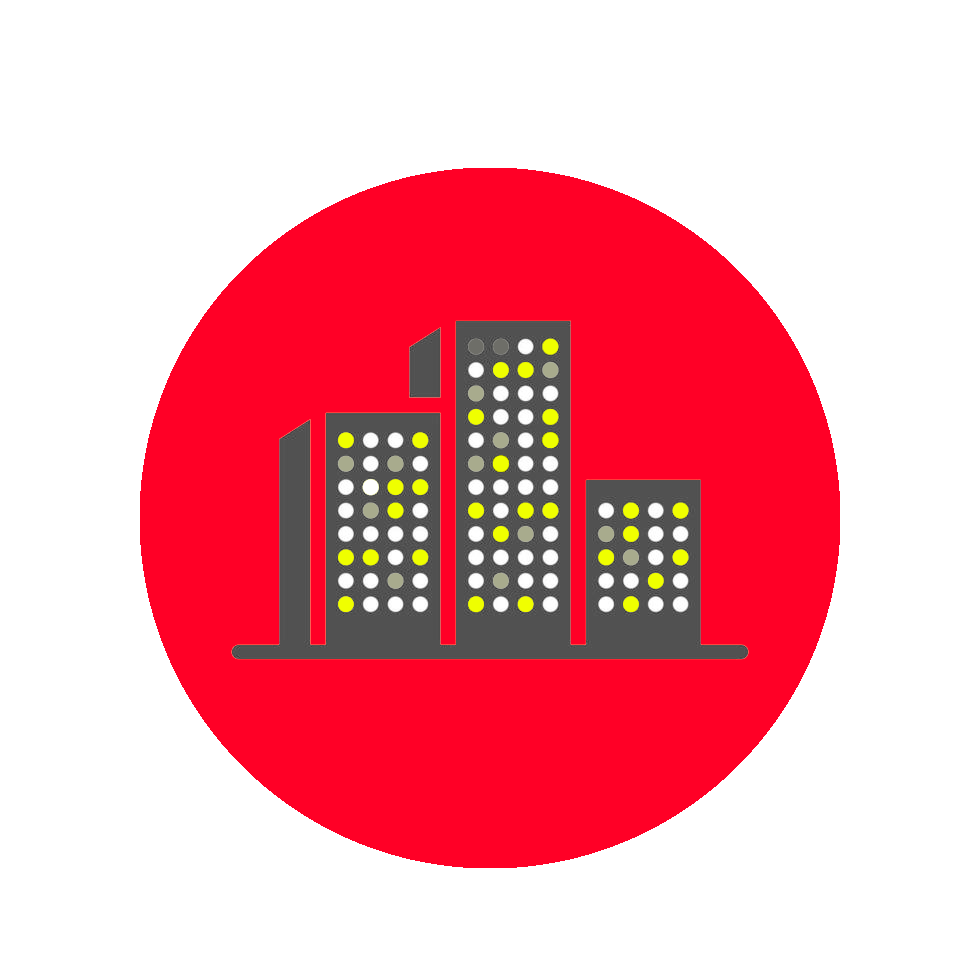
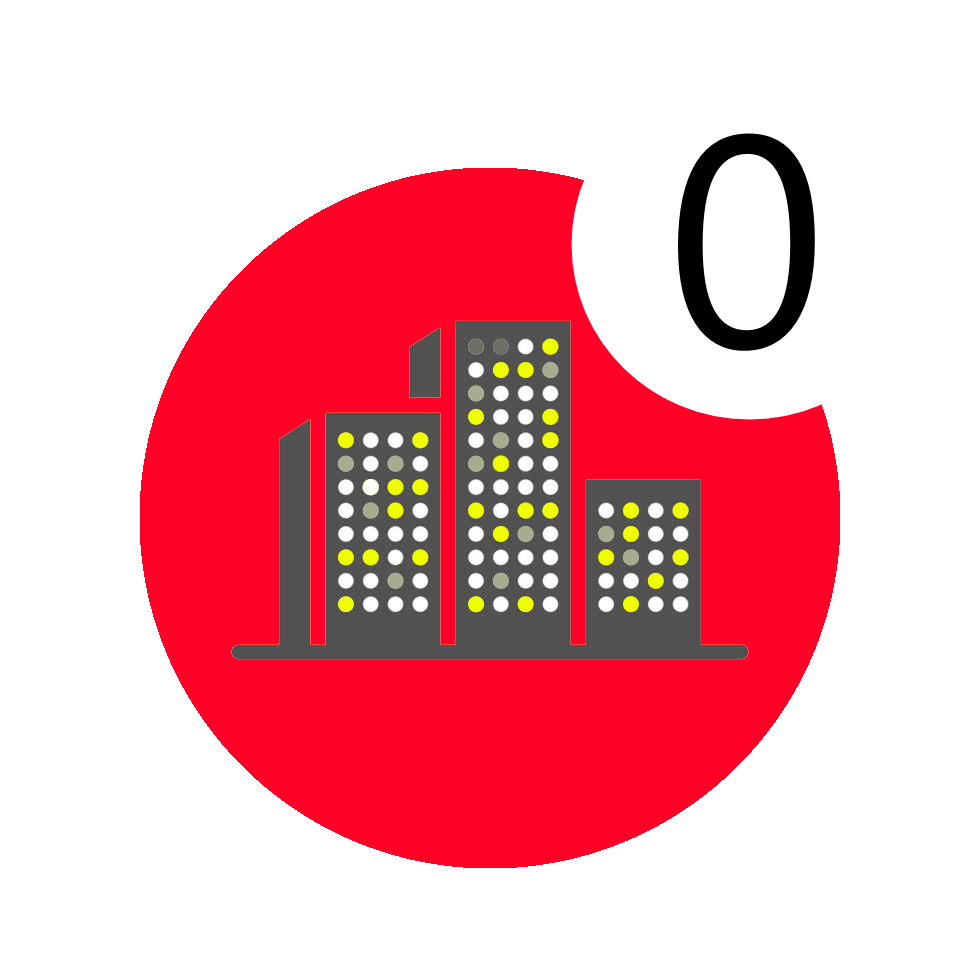
ciudades spawn con nivel

Changed region(s): [[0.5816, 0.1224, 0.8571, 0.4286]]

diff --git a/src/Backend/logicaJuego.java b/src/Backend/logicaJuego.java
@@ -3,9 +3,11 @@ package Backend;
 import java.awt.Color;
 import java.awt.Dimension;
 import java.awt.Image;
+import java.awt.Panel;
 import java.io.BufferedReader;
 import java.io.FileReader;
 import java.io.IOException;
+import java.util.Random;
 import java.util.concurrent.TimeUnit;
 
 import javax.swing.ButtonGroup;
@@ -103,6 +105,7 @@ public class logicaJuego {
 			CiudadBoton c = new CiudadBoton();
 			c.setCiudad(dp.ciudades.get(i));
 			crearBotonciudad(LanzadorPartida.p, c, rutaImg, dp.ciudades.get(i).getCoords()[0], dp.ciudades.get(i).getCoords()[1], 35, 35);
+			
 		}
 	}
 	
@@ -120,6 +123,7 @@ public class logicaJuego {
         p.add(Ciudad);
         //System.out.println("Botón " + rutaimg + "se intentó crear en " + p);
         Ciudad.addActionListener(p);
+        PanelMapa.botonesCiudadesArray.add(Ciudad);
     }
 	
     //VACUNAS
@@ -220,7 +224,7 @@ public class logicaJuego {
 
 	}
 
-public static void animateJLabel(JLabel label, int percentage, int sumar, Vacuna v, Runnable callback) {
+	public static void animateJLabel(JLabel label, int percentage, int sumar, Vacuna v, Runnable callback) {
     int resultado_final = percentage + sumar;
     
     if (resultado_final > 100) {
@@ -255,6 +259,108 @@ public static void animateJLabel(JLabel label, int percentage, int sumar, Vacuna
             callback.run();
         }
     }).start();
+}
+
+	//GAMEPLAY
+public static void empezarPartida(int dificultad){
+    Random rand = new Random();
+    int numCiudadesInfectadas = 0;
+    
+    // Definir el tamaño del array según la dificultad
+    int[] ciudadesInfectadasComienzo;
+    switch (dificultad) {
+        case 1:
+            ciudadesInfectadasComienzo = new int[8];
+            break;
+        case 2:
+            ciudadesInfectadasComienzo = new int[12];
+            break;
+        case 3:
+            ciudadesInfectadasComienzo = new int[16];
+            break;
+        default:
+            ciudadesInfectadasComienzo = new int[8];
+            break;
+    }
+    
+    for (int i = 0; i < ciudadesInfectadasComienzo.length; i++) {
+        int r = rand.nextInt(0, dp.ciudades.size());
+        ciudadesInfectadasComienzo[i] = r;
+    }
+    
+    // Poner acciones en 4
+    dp.setAcciones(4);
+    PanelBotonesMenuAbajo.lblAcciones.setText("Acciones: " + dp.getAcciones());
+    
+    // Turno en 1
+    dp.setRondas(1);
+    PanelBotonesMenuAbajo.lblTurno.setText("Turno: " + dp.getRondas());
+    
+    // Número random de ciudades para infectarse
+    for (int i = 0; i < ciudadesInfectadasComienzo.length; i++) {
+        
+        String enfermedad = PanelMapa.botonesCiudadesArray.get(ciudadesInfectadasComienzo[i]).getCiudad().getEnfermedad();
+        switch (enfermedad) {
+        case "Alfa":
+            if (dificultad >= 2) {
+                if (rand.nextBoolean()) {
+                    PanelMapa.botonesCiudadesArray.get(ciudadesInfectadasComienzo[i]).setIcon(PanelMapa.ciudad_azul1);
+                    dp.ciudades.get(ciudadesInfectadasComienzo[i]).setInfeccion(1);
+                } else {
+                    PanelMapa.botonesCiudadesArray.get(ciudadesInfectadasComienzo[i]).setIcon(PanelMapa.ciudad_azul2);
+                    dp.ciudades.get(ciudadesInfectadasComienzo[i]).setInfeccion(2);
+                }
+            } else {
+                PanelMapa.botonesCiudadesArray.get(ciudadesInfectadasComienzo[i]).setIcon(PanelMapa.ciudad_azul1);
+                dp.ciudades.get(ciudadesInfectadasComienzo[i]).setInfeccion(1);
+            }
+            break;
+        case "Beta":
+            if (dificultad >= 2) {
+                if (rand.nextBoolean()) {
+                    PanelMapa.botonesCiudadesArray.get(ciudadesInfectadasComienzo[i]).setIcon(PanelMapa.ciudad_roja1);
+                    dp.ciudades.get(ciudadesInfectadasComienzo[i]).setInfeccion(1);
+                } else {
+                    PanelMapa.botonesCiudadesArray.get(ciudadesInfectadasComienzo[i]).setIcon(PanelMapa.ciudad_roja2);
+                    dp.ciudades.get(ciudadesInfectadasComienzo[i]).setInfeccion(2);
+                }
+            } else {
+                PanelMapa.botonesCiudadesArray.get(ciudadesInfectadasComienzo[i]).setIcon(PanelMapa.ciudad_roja1);
+                dp.ciudades.get(ciudadesInfectadasComienzo[i]).setInfeccion(1);
+            }
+            break;
+        case "Gama":
+            if (dificultad >= 2) {
+                if (rand.nextBoolean()) {
+                    PanelMapa.botonesCiudadesArray.get(ciudadesInfectadasComienzo[i]).setIcon(PanelMapa.ciudad_verde1);
+                    dp.ciudades.get(ciudadesInfectadasComienzo[i]).setInfeccion(1);
+                } else {
+                    PanelMapa.botonesCiudadesArray.get(ciudadesInfectadasComienzo[i]).setIcon(PanelMapa.ciudad_verde2);
+                    dp.ciudades.get(ciudadesInfectadasComienzo[i]).setInfeccion(2);
+                }
+            } else {
+                PanelMapa.botonesCiudadesArray.get(ciudadesInfectadasComienzo[i]).setIcon(PanelMapa.ciudad_verde1);
+                dp.ciudades.get(ciudadesInfectadasComienzo[i]).setInfeccion(1);
+            }
+            break;
+        case "Delta":
+            if (dificultad >= 2) {
+                if (rand.nextBoolean()) {
+                    PanelMapa.botonesCiudadesArray.get(ciudadesInfectadasComienzo[i]).setIcon(PanelMapa.ciudad_amarilla1);
+                    dp.ciudades.get(ciudadesInfectadasComienzo[i]).setInfeccion(1);
+                } else {
+                    PanelMapa.botonesCiudadesArray.get(ciudadesInfectadasComienzo[i]).setIcon(PanelMapa.ciudad_amarilla2);
+                    dp.ciudades.get(ciudadesInfectadasComienzo[i]).setInfeccion(2);
+                }
+            } else {
+                PanelMapa.botonesCiudadesArray.get(ciudadesInfectadasComienzo[i]).setIcon(PanelMapa.ciudad_amarilla1);
+                dp.ciudades.get(ciudadesInfectadasComienzo[i]).setInfeccion(1);
+            }
+            break;
+        default:
+            break;
+    }
+    }
 }
 
 

diff --git a/src/UI/PanelBotonesMenuAbajo.java b/src/UI/PanelBotonesMenuAbajo.java
@@ -1,6 +1,9 @@
 package UI;
 
 import javax.swing.*;
+
+import Backend.logicaJuego;
+
 import java.awt.*;
 import java.io.File;
 import java.io.IOException;
@@ -8,6 +11,8 @@ import java.util.concurrent.TimeUnit;
 
 public class PanelBotonesMenuAbajo extends JPanel {
 
+	public static JLabel lblAcciones = new JLabel();
+	public static JLabel lblTurno = new JLabel();
 	public static JTextArea Caja;
 
 	public PanelBotonesMenuAbajo() {
@@ -18,16 +23,6 @@ public class PanelBotonesMenuAbajo extends JPanel {
 
 		// Espacio en blanco para empujar el JLabel hacia la derecha
 		add(Box.createHorizontalGlue());
-
-		ImageIcon icon = new ImageIcon("img/tierraR.gif");
-
-		JLabel lbl = new JLabel(icon);
-
-		// Establecer tamaño del JLabel
-		lbl.setPreferredSize(new Dimension(150, 100));
-
-		// Añadir el JLabel al panel
-		add(lbl, BorderLayout.EAST);
 
 		this.setBackground(new Color(20, 20, 30)); // Fondo negro azulado
 		setPreferredSize(new Dimension(150, 125)); // Ajustar tamaño del panel
@@ -50,6 +45,22 @@ public void agregarCajadialogo() {
         e.printStackTrace();
     }
     
+    JPanel panelSuperior = new JPanel();
+    panelSuperior.setLayout(new BoxLayout(panelSuperior, BoxLayout.X_AXIS)); // Usar BoxLayout horizontal
+    panelSuperior.setBackground(new Color(20, 20, 30));
+    
+    lblAcciones.setBorder(BorderFactory.createEmptyBorder(0, 0, 0, 10));
+    
+    
+    lblAcciones.setForeground(Color.WHITE);
+    lblAcciones.setBorder(BorderFactory.createEmptyBorder(0, 0, 0, 10)); // Agregar margen a la derecha
+    panelSuperior.add(lblAcciones);
+    panelSuperior.add(Box.createHorizontalStrut(20)); // Espacio horizontal entre Acciones y Turno
+    
+    
+    lblTurno.setForeground(Color.WHITE);
+    panelSuperior.add(lblTurno);
+    
     JPanel panelCaja = new JPanel(new FlowLayout(FlowLayout.CENTER, 0, 0));
     panelCaja.setBackground(new Color(20, 20, 30));
     Caja = new JTextArea();
@@ -57,18 +68,34 @@ public void agregarCajadialogo() {
     Caja.setEditable(false);
     Caja.setLineWrap(true);
     Caja.setWrapStyleWord(true);
-    Caja.setPreferredSize(new Dimension(700, 117));
+    Caja.setPreferredSize(new Dimension(500, 117));
     Caja.setForeground(Color.WHITE); 
     Caja.setBackground(new Color(20, 20, 30));
-    add(panelCaja, BorderLayout.CENTER);
+    panelSuperior.add(panelCaja);
+    
+    JButton btnFinalizarTurno = new JButton("Finalizar turno");
+    btnFinalizarTurno.setForeground(Color.WHITE);
+    btnFinalizarTurno.setBackground(new Color(50, 50, 100));
+    btnFinalizarTurno.setFocusPainted(false);
+    btnFinalizarTurno.addActionListener(e -> {
+        // Lógica para finalizar el turno
+    });
+    panelSuperior.add(btnFinalizarTurno);
+    
+    add(panelSuperior, BorderLayout.NORTH);
 
     if (fuentePersonalizada != null) {
         Caja.setFont(fuentePersonalizada);
+        lblTurno.setFont(fuentePersonalizada);
+        lblAcciones.setFont(fuentePersonalizada);
+        btnFinalizarTurno.setFont(fuentePersonalizada);
     } else {
         // Fuente predeterminada en caso de que la fuente no se cargue correctamente
         Caja.setFont(new Font("Arial", Font.PLAIN, 12));
+        lblAcciones.setFont(new Font("Arial", Font.PLAIN, 12));
+        lblTurno.setFont(new Font("Arial", Font.PLAIN, 12));
+        btnFinalizarTurno.setFont(new Font("Arial", Font.PLAIN, 12));
     }
-   
 }
 
 

diff --git a/src/UI/PanelMapa.java b/src/UI/PanelMapa.java
@@ -7,6 +7,7 @@
 	import java.awt.event.ActionListener;
 	import java.awt.event.ItemEvent;
 	import java.awt.event.ItemListener;
+import java.util.ArrayList;
 import java.util.Iterator;
 
 import javax.swing.*;
@@ -20,12 +21,31 @@ import Clases.CiudadBoton;
 import Clases.Ciudades;
 	
 	public class PanelMapa extends JPanel implements ActionListener {
+		public static ImageIcon ciudad_azul0 = new ImageIcon(new ImageIcon("img/IconoCiudadAzul.png").getImage().getScaledInstance(35, 35, Image.SCALE_SMOOTH));
+		public static ImageIcon ciudad_azul1 = new ImageIcon(new ImageIcon("img/IconoCiudadAzul1.png").getImage().getScaledInstance(35, 35, Image.SCALE_SMOOTH));
+		public static ImageIcon ciudad_azul2 = new ImageIcon(new ImageIcon("img/IconoCiudadAzul2.png").getImage().getScaledInstance(35, 35, Image.SCALE_SMOOTH));
+		public static ImageIcon ciudad_azul3 = new ImageIcon(new ImageIcon("img/IconoCiudadAzul3.png").getImage().getScaledInstance(35, 35, Image.SCALE_SMOOTH));
+	
+		public static ImageIcon ciudad_verde0 = new ImageIcon(new ImageIcon("img/iconoCiudadVerde.png").getImage().getScaledInstance(35, 35, Image.SCALE_SMOOTH));
+		public static ImageIcon ciudad_verde1 = new ImageIcon(new ImageIcon("img/iconoCiudadVerde1.png").getImage().getScaledInstance(35, 35, Image.SCALE_SMOOTH));
+		public static ImageIcon ciudad_verde2 = new ImageIcon(new ImageIcon("img/iconoCiudadVerde2.png").getImage().getScaledInstance(35, 35, Image.SCALE_SMOOTH));
+		public static ImageIcon ciudad_verde3 = new ImageIcon(new ImageIcon("img/iconoCiudadVerde3.png").getImage().getScaledInstance(35, 35, Image.SCALE_SMOOTH));
+
+		public static ImageIcon ciudad_roja0 = new ImageIcon(new ImageIcon("img/IconoCiudadRojo.png").getImage().getScaledInstance(35, 35, Image.SCALE_SMOOTH));
+		public static ImageIcon ciudad_roja1 = new ImageIcon(new ImageIcon("img/IconoCiudadRojo1.png").getImage().getScaledInstance(35, 35, Image.SCALE_SMOOTH));
+		public static ImageIcon ciudad_roja2 = new ImageIcon(new ImageIcon("img/IconoCiudadRojo2.png").getImage().getScaledInstance(35, 35, Image.SCALE_SMOOTH));
+		public static ImageIcon ciudad_roja3 = new ImageIcon(new ImageIcon("img/IconoCiudadRojo3.png").getImage().getScaledInstance(35, 35, Image.SCALE_SMOOTH));
 		
-	
-	
+		public static ImageIcon ciudad_amarilla0 = new ImageIcon(new ImageIcon("img/IconoCiudadAmarillo.png").getImage().getScaledInstance(35, 35, Image.SCALE_SMOOTH));
+		public static ImageIcon ciudad_amarilla1 = new ImageIcon(new ImageIcon("img/IconoCiudadAmarillo1.png").getImage().getScaledInstance(35, 35, Image.SCALE_SMOOTH));
+		public static ImageIcon ciudad_amarilla2 = new ImageIcon(new ImageIcon("img/IconoCiudadAmarillo2.png").getImage().getScaledInstance(35, 35, Image.SCALE_SMOOTH));
+		public static ImageIcon ciudad_amarilla3 = new ImageIcon(new ImageIcon("img/IconoCiudadAmarillo3.png").getImage().getScaledInstance(35, 35, Image.SCALE_SMOOTH));		
+		
+		
 	    private ImageIcon icon;
 	    private Image scaledImage;
 	    public static ButtonGroup IconosCiudades = new ButtonGroup();
+	    public static ArrayList<CiudadBoton> botonesCiudadesArray = new ArrayList<>();
 	
 	
 	    public PanelMapa() { // testea botones si funcionan todos con print

diff --git a/src/UI/LanzadorPartida.java b/src/UI/LanzadorPartida.java
@@ -30,6 +30,7 @@ public class LanzadorPartida extends JPanel {
         //Álvaro: he puesto los paneles públicos para poder editarlos desde el backend si es necesario
         logicaJuego.crearArrayCiudades();
         logicaJuego.crearBotonesCiudades();
+        logicaJuego.empezarPartida(3);
         
         logicaJuego.crearVacunas(p4.vacunas, p4);
         logicaJuego.BotonesDesarollar_curar(p4);

diff --git a/src/UI/PanelJuegoDerecha.java b/src/UI/PanelJuegoDerecha.java
@@ -145,6 +145,7 @@ public void actionPerformed(ActionEvent e) {
                 });
                 break;
             default:
+            	DesarollarVacuna.setEnabled(true);
                 break;
         }
     }
